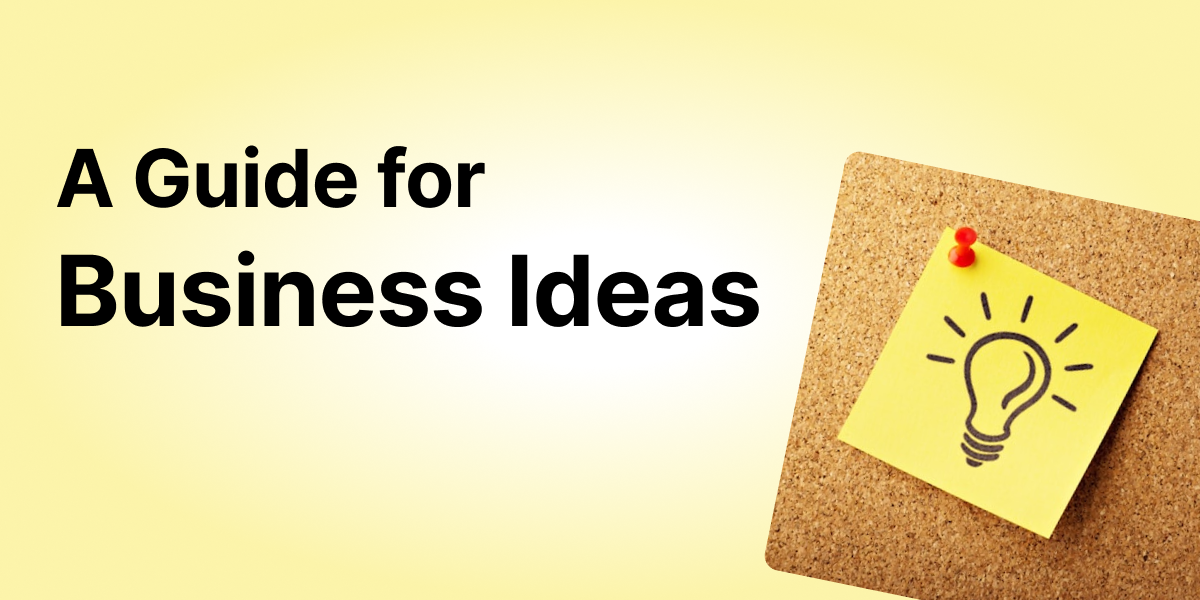
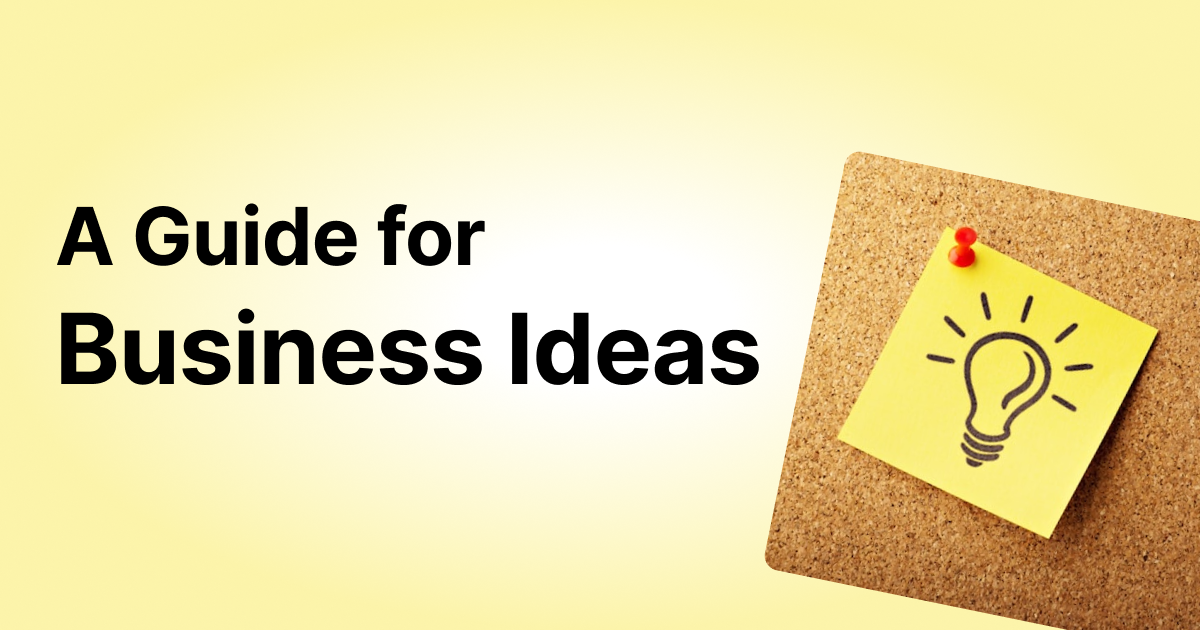
[fr] Fix image scaling of OG images (plus adjust NextImages)

Changed region(s): [[0.0308, 0.24, 1.0, 1.0]]

diff --git a/packages/fabian-rosenthal/src/app/[lang]/blog/[slug]/page.tsx b/packages/fabian-rosenthal/src/app/[lang]/blog/[slug]/page.tsx
@@ -4,6 +4,7 @@ import { Metadata } from "next"
 import NextLink from "next/link"
 import { draftMode } from "next/headers"
 import { Article, WithContext } from "schema-dts"
+import NextImage from "next/image"
 import "@xennis/react-notion-cms-render/dist/styles.css"
 
 import { i18n } from "@/content/i18n"
@@ -126,13 +127,15 @@ export default async function BlogSlugPage({ params }: { params: { lang: string;
         </div>
       </div>
       {post.ogImage !== null && (
-        // eslint-disable-next-line @next/next/no-img-element
-        <img
-          src={post.ogImage}
-          alt="Blog image"
-          width={825}
-          className="mx-auto my-8 rounded-lg shadow-md sm:my-10 sm:rounded-xl sm:shadow-lg"
-        />
+        <div className="relative mx-auto my-8 aspect-[1.91/1] w-full sm:my-10 md:max-w-[825px]">
+          <NextImage
+            src={post.ogImage}
+            alt="Blog image"
+            fill
+            className="rounded-lg shadow-md sm:rounded-xl sm:shadow-lg"
+            quality={100}
+          />
+        </div>
       )}
       <div className="mx-auto max-w-screen-md">
         <Render

diff --git a/packages/fabian-rosenthal/src/components/blog-post-list.tsx b/packages/fabian-rosenthal/src/components/blog-post-list.tsx
@@ -39,10 +39,18 @@ const BlogPostCard = ({ post }: { post: BlogPost }) => {
             <h2 className="pb-2 text-xl font-semibold group-hover:text-[#18b83d] sm:text-2xl">{post.title}</h2>
             <p className="leading-7 text-gray-700">{post.metaDescription}</p>
           </div>
-          <div className="relative aspect-video w-full sm:h-[140px] sm:w-[268px]">
-            {post.ogImage && (
-              <NextImage src={post.ogImage} alt="Post image" className="rounded-md sm:rounded-lg" fill quality={85} />
-            )}
+          <div>
+            <div className="relative aspect-[1.91/1] w-full sm:w-[267px]">
+              {post.ogImage && (
+                <NextImage
+                  src={post.ogImage}
+                  alt="Post image"
+                  className="rounded-md sm:rounded-lg"
+                  fill
+                  quality={100}
+                />
+              )}
+            </div>
           </div>
         </div>
         <div className="gap-3 pt-4 text-sm text-gray-600 md:flex md:flex-row">

diff --git a/packages/fabian-rosenthal/src/components/layout/header.tsx b/packages/fabian-rosenthal/src/components/layout/header.tsx
@@ -15,7 +15,14 @@ function Logo({ homeHref, dictionary }: { homeHref: string; dictionary: Dictiona
         href={homeHref}
         className="group flex items-center"
       >
-        <NextImage className="rounded" src={authorImage} alt="Profile picture of Fabian" width={75} unoptimized />
+        <NextImage
+          className="rounded"
+          src={authorImage}
+          alt="Profile picture of Fabian"
+          width={75}
+          height={75}
+          quality={100}
+        />
         <div className="ps-3">
           <span className="text-xl font-semibold tracking-tight group-hover:text-[#18b83d]">{dictionary.title}</span>
           <br />

diff --git a/packages/fabian-rosenthal/src/app/[lang]/[slug]/page.tsx b/packages/fabian-rosenthal/src/app/[lang]/[slug]/page.tsx
@@ -161,13 +161,13 @@ const Blog = async ({ lang }: { lang: string }) => {
           <Dot />
         </h2>
         <NextLink href={businessIdeas(lang)} className="hover:grayscale">
-          <div className="relative aspect-video w-full sm:max-w-96">
+          <div className="relative aspect-[1.91/1] w-full sm:max-w-96">
             <NextImage
               src={bussinessIdeasOgImage}
               alt="A Guide for Business Ideas"
               className="rounded-md sm:rounded-lg"
               fill
-              quality={85}
+              quality={100}
             />
           </div>
         </NextLink>
